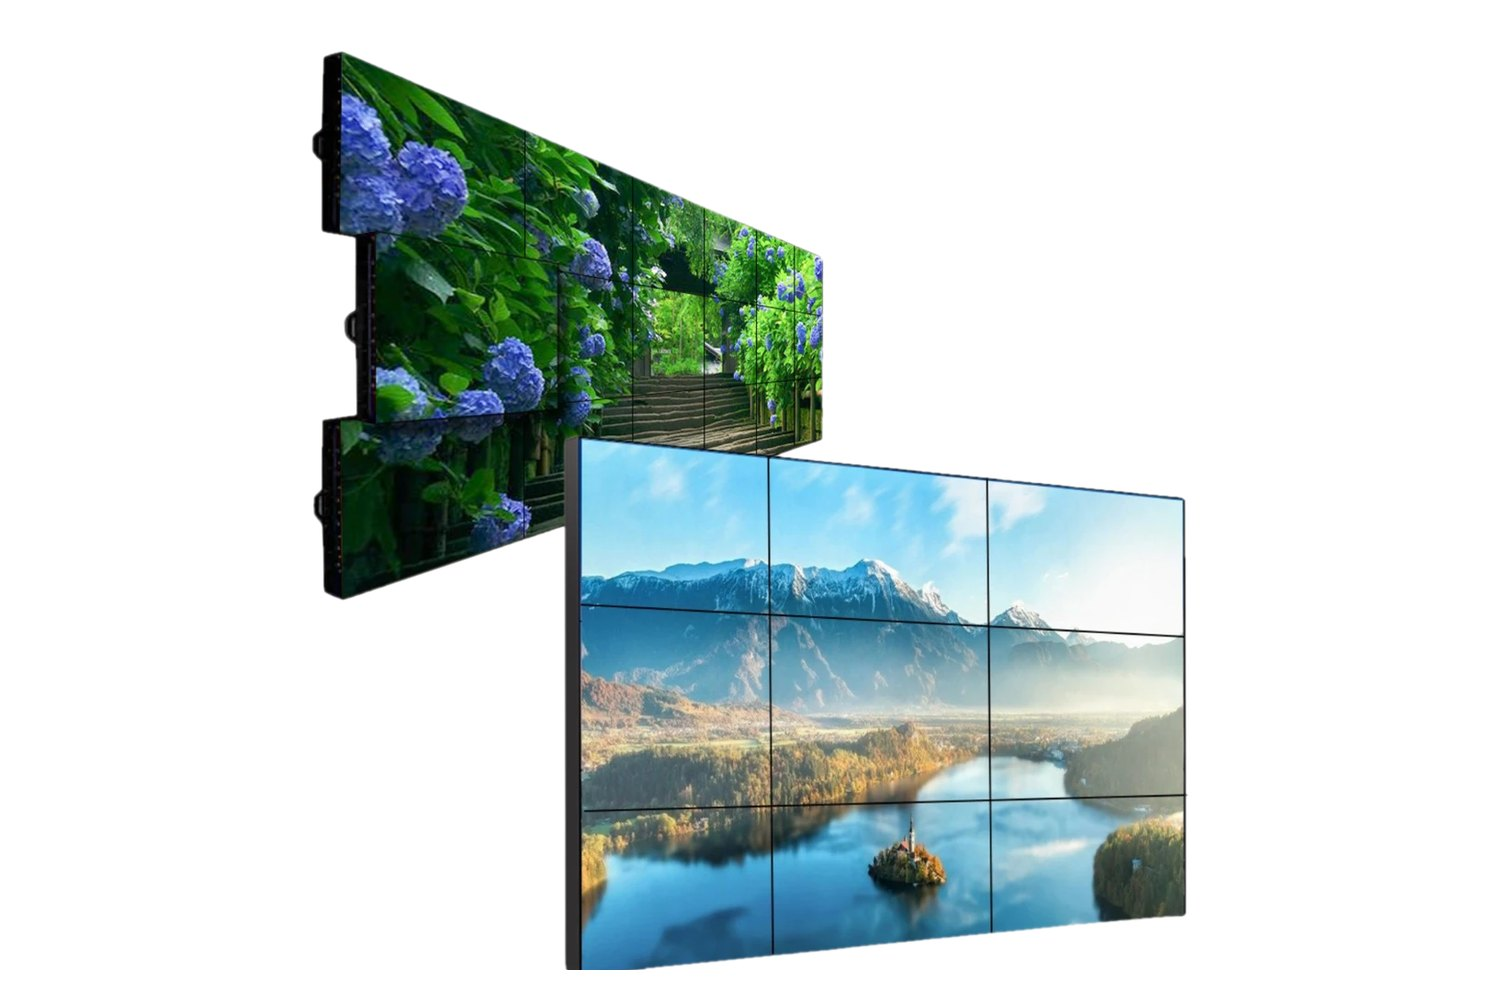
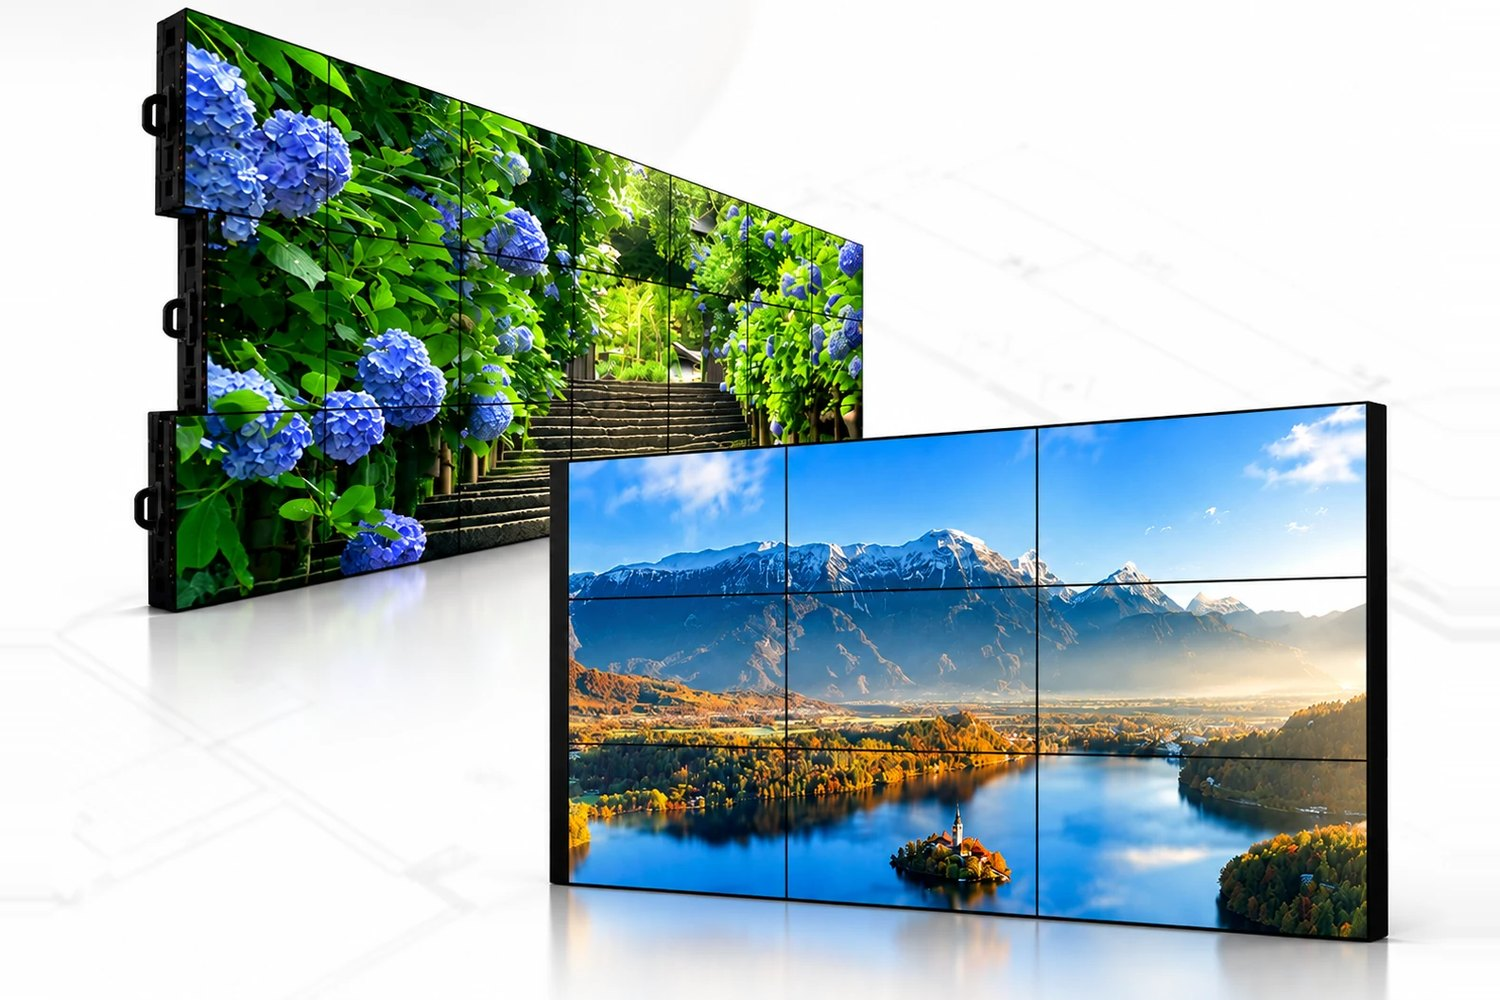
LED: fotos novas de video wall e digital signage; Corporativo e Sistema numa seção só

diff --git a/led/index.html b/led/index.html
@@ -105,6 +105,7 @@ section{padding:70px 0 10px}
 .ad-cap .antes{background:#f1f3f6;color:#55627a}.ad-cap .antes small{color:#8a97ad}.ad-cap .antes b{color:#3b4a63}
 .ad-cap .depois{background:var(--navy);color:#cfe2ff}.ad-cap .depois small{color:#7fc4ff}.ad-cap .depois b{color:#fff}
 @media(max-width:600px){.ad-cap{grid-template-columns:1fr}}
+.sis-in{margin:40px 0 46px}.sub-h{font-size:clamp(24px,2.8vw,34px);font-weight:700;letter-spacing:-.03em;color:var(--ink);margin:0 0 14px;line-height:1.15}.sub-h span{color:var(--blue)}.anc{display:block;position:relative;top:-80px}
 .sis{background:linear-gradient(180deg,#f2f8ff,var(--bg))}
 .sis-grid{display:grid;grid-template-columns:.95fr 1.05fr;gap:48px;align-items:center}
 .cmp{display:grid;grid-template-columns:1fr auto 1fr;gap:12px;align-items:stretch;margin-top:8px}
@@ -229,7 +230,7 @@ section{padding:70px 0 10px}
 <body>
 <header class="site"><div class="top">
   <a class="logo" href="../"><img src="../logo_dark.png" alt="ADmídia"></a>
-  <nav class="nav"><a href="#solucoes">Soluções</a><a href="#led">Painéis de LED</a><a href="#corporativo">Corporativo</a><a href="#sistema">Sistema</a><a href="#projetos">Projetos</a><a href="#contato">Fale conosco</a></nav>
+  <nav class="nav"><a href="#solucoes">Soluções</a><a href="#led">Painéis de LED</a><a href="#corporativo">Corporativo e sistema</a><a href="#projetos">Projetos</a><a href="#contato">Fale conosco</a></nav>
   <a class="pill dk" href="../"><span class="t">Anunciar nos nossos pontos</span><span>→</span></a>
 </div></header>
 
@@ -264,7 +265,7 @@ section{padding:70px 0 10px}
     <div class="tp on" role="tabpanel"><div class="ph"><img src="../capa.jpg" alt="Painel de LED na fachada de loja" loading="lazy"></div><div><h3>Painel de LED</h3><p>Fachada, outdoor e ambientes internos. Brilho forte pra ser visto de dia e de noite, com imagem e vídeo em alta definição.</p><ul><li>Fachadas de lojas e comércios</li><li>Outdoor e pontos de grande fluxo</li><li>Ambientes internos como academias e lojas</li></ul><a class="btn p" href="#" onclick="zapSeg('painel de LED');return false">Quero um orçamento de painel de LED</a></div></div>
     <div class="tp" role="tabpanel"><div class="ph"><img src="img/primus-instalacao.jpg" alt="Totem de LED no Trevo dos Morrotes" loading="lazy"></div><div><h3>Totem de LED</h3><p>Totem na frente do seu negócio ou em ponto de grande fluxo. Divulgue a sua marca e venda espaço para anunciantes: o painel se paga.</p><ul><li>Postos, farmácias, lojas e restaurantes</li><li>Estrutura e instalação completas</li><li>Troca de conteúdo à distância</li></ul><a class="btn p" href="#" onclick="zapSeg('totem');return false">Quero um orçamento de totem de led</a></div></div>
     <div class="tp" role="tabpanel"><div class="ph"><img src="img/videowall.jpg" alt="Video wall com várias telas formando uma imagem só" loading="lazy"></div><div><h3>Video wall</h3><p>Várias telas juntas formando uma imagem gigante, com bordas finas quase invisíveis. Impacto de cinema no seu espaço.</p><ul><li>Recepções, lojas e showrooms</li><li>Eventos e auditórios</li><li>Salas de controle e monitoramento</li></ul><a class="btn p" href="#" onclick="zapSeg('videowall');return false">Quero um orçamento de video wall</a></div></div>
-    <div class="tp" role="tabpanel"><div class="ph"><img src="img/sorveteria.jpg" alt="Cardápio digital com 3 telas" loading="lazy"></div><div><h3>Digital signage</h3><p>Telas internas com cardápio, promoções, avisos e conteúdo da marca, tudo gerenciado de qualquer lugar pelo nosso sistema. Sem pendrive.</p><ul><li>Cardápio digital em restaurantes e lanchonetes</li><li>Promoções no ponto de venda</li><li>Comunicação interna em empresas</li></ul><a class="btn p" href="#" onclick="zapSeg('signage');return false">Quero um orçamento de digital signage</a></div></div>
+    <div class="tp" role="tabpanel"><div class="ph"><img src="img/signage.jpg" alt="Telas de digital signage com cardápio e promoções" loading="lazy"></div><div><h3>Digital signage</h3><p>Telas internas com cardápio, promoções, avisos e conteúdo da marca, tudo gerenciado de qualquer lugar pelo nosso sistema. Sem pendrive.</p><ul><li>Cardápio digital em restaurantes e lanchonetes</li><li>Promoções no ponto de venda</li><li>Comunicação interna em empresas</li></ul><a class="btn p" href="#" onclick="zapSeg('signage');return false">Quero um orçamento de digital signage</a></div></div>
   </div>
 </div></section>
 
@@ -304,25 +305,14 @@ section{padding:70px 0 10px}
   </div>
 </div></section>
 <section class="corp" id="corporativo"><div class="wrap">
-  <div class="sec-k rv">Corporativo</div>
+  <div class="sec-k rv">Corporativo e sistema</div>
   <h2 class="rv">Comunicação que acompanha o <span>ritmo do seu negócio</span>.</h2>
   <p class="lead rv" style="max-width:720px">Mural de papel, cartaz impresso e recado no grupo de WhatsApp ficam velhos rápido, ninguém lê e custam caro pra refazer. Com telas digitais, a comunicação do seu estabelecimento fica viva, atualizada e impossível de ignorar.</p>
-  <p class="quote rv">A sua comunicação interna <span>também é a sua marca.</span></p>
-  <div class="bens">
-    <div class="bem rv"><div class="bi"><svg viewBox="0 0 24 24" fill="none" stroke="currentColor" stroke-width="2" stroke-linecap="round" stroke-linejoin="round"><path d="M13 2L3 14h9l-1 8 10-12h-9z"/></svg></div><b>Atualiza em segundos</b><p>Mudou o preço, a promoção ou o aviso? Troca na hora, de qualquer lugar, sem imprimir nada.</p></div>
-    <div class="bem rv"><div class="bi"><svg viewBox="0 0 24 24" fill="none" stroke="currentColor" stroke-width="2" stroke-linecap="round" stroke-linejoin="round"><path d="M1 12s4-8 11-8 11 8 11 8-4 8-11 8-11-8-11-8z"/><circle cx="12" cy="12" r="3"/></svg></div><b>Todo mundo vê</b><p>Clientes e colaboradores olham pra tela. Informação no lugar certo, na hora certa.</p></div>
-    <div class="bem rv"><div class="bi"><svg viewBox="0 0 24 24" fill="none" stroke="currentColor" stroke-width="2" stroke-linecap="round" stroke-linejoin="round"><rect x="3" y="3" width="7" height="7" rx="1"/><rect x="14" y="3" width="7" height="7" rx="1"/><rect x="3" y="14" width="7" height="7" rx="1"/><rect x="14" y="14" width="7" height="7" rx="1"/></svg></div><b>Padrão em todas as unidades</b><p>Mesma mensagem, mesma identidade visual, em uma ou dez lojas.</p></div>
-    <div class="bem rv"><div class="bi"><svg viewBox="0 0 24 24" fill="none" stroke="currentColor" stroke-width="2" stroke-linecap="round" stroke-linejoin="round"><path d="M3 17l6-6 4 4 8-8"/><path d="M14 7h7v7"/></svg></div><b>Mais vendas no ponto</b><p>Cardápio digital, combos e lançamentos onde a decisão de compra acontece.</p></div>
-    <div class="bem rv"><div class="bi"><svg viewBox="0 0 24 24" fill="none" stroke="currentColor" stroke-width="2" stroke-linecap="round" stroke-linejoin="round"><circle cx="9" cy="8" r="3.5"/><path d="M2 21c0-4 3-6.5 7-6.5s7 2.5 7 6.5"/><circle cx="17.5" cy="9" r="2.5"/><path d="M16 14.6c3.4.2 6 2.4 6 6.4"/></svg></div><b>Equipe mais engajada</b><p>Metas, aniversariantes, treinamentos e comunicados internos sem depender de e-mail ou papel.</p></div>
-    <div class="bem rv"><div class="bi"><svg viewBox="0 0 24 24" fill="none" stroke="currentColor" stroke-width="2" stroke-linecap="round" stroke-linejoin="round"><path d="M11 20A7 7 0 0 1 4 13c0-5 4-9 16-10-1 12-5 16-9 17z"/><path d="M4 21c3-6 7-9 11-11"/></svg></div><b>Economia e sustentabilidade</b><p>Adeus gasto com gráfica e impressão toda semana.</p></div>
-  </div>
-</div></section>
-
-<section class="sis" id="sistema"><div class="wrap">
-  <div class="sis-grid">
+  <span id="sistema" class="anc"></span>
+  <div class="sis-in"><div class="sis-grid">
     <div>
-      <div class="sec-k rv">Sistema de gestão</div>
-      <h2 class="rv">Tudo à distância. <span>Sem pendrive.</span></h2>
+      <div class="sec-k rv">Sistema de gestão ADmídia</div>
+      <h3 class="sub-h rv">Tudo à distância. <span>Sem pendrive.</span></h3>
       <p class="lead rv">A ADmídia aproveita as telas que você já tem e transforma a atualização em gestão digital. Você muda a arte no computador ou no celular, e as telas atualizam sozinhas.</p>
       </div>
     <div class="macimg rv"><img src="img/sis/sistema-mac.jpg" alt="Sistema de gestão de telas da ADmídia aberto no computador" loading="lazy"></div>
@@ -333,6 +323,16 @@ section{padding:70px 0 10px}
       <div class="antes"><small>Hoje</small><b>Pendrive</b><p>Preparar o arquivo, levar até a TV e trocar na mão.</p></div>
       <div class="depois"><small>Com a ADmídia</small><b>Gestão digital</b><p>Atualização à distância, em poucos cliques, em todas as telas.</p></div>
     </div>
+  </div>
+</div>
+  <p class="quote rv">A sua comunicação interna <span>também é a sua marca.</span></p>
+  <div class="bens">
+    <div class="bem rv"><div class="bi"><svg viewBox="0 0 24 24" fill="none" stroke="currentColor" stroke-width="2" stroke-linecap="round" stroke-linejoin="round"><path d="M13 2L3 14h9l-1 8 10-12h-9z"/></svg></div><b>Atualiza em segundos</b><p>Mudou o preço, a promoção ou o aviso? Troca na hora, de qualquer lugar, sem imprimir nada.</p></div>
+    <div class="bem rv"><div class="bi"><svg viewBox="0 0 24 24" fill="none" stroke="currentColor" stroke-width="2" stroke-linecap="round" stroke-linejoin="round"><path d="M1 12s4-8 11-8 11 8 11 8-4 8-11 8-11-8-11-8z"/><circle cx="12" cy="12" r="3"/></svg></div><b>Todo mundo vê</b><p>Clientes e colaboradores olham pra tela. Informação no lugar certo, na hora certa.</p></div>
+    <div class="bem rv"><div class="bi"><svg viewBox="0 0 24 24" fill="none" stroke="currentColor" stroke-width="2" stroke-linecap="round" stroke-linejoin="round"><rect x="3" y="3" width="7" height="7" rx="1"/><rect x="14" y="3" width="7" height="7" rx="1"/><rect x="3" y="14" width="7" height="7" rx="1"/><rect x="14" y="14" width="7" height="7" rx="1"/></svg></div><b>Padrão em todas as unidades</b><p>Mesma mensagem, mesma identidade visual, em uma ou dez lojas.</p></div>
+    <div class="bem rv"><div class="bi"><svg viewBox="0 0 24 24" fill="none" stroke="currentColor" stroke-width="2" stroke-linecap="round" stroke-linejoin="round"><path d="M3 17l6-6 4 4 8-8"/><path d="M14 7h7v7"/></svg></div><b>Mais vendas no ponto</b><p>Cardápio digital, combos e lançamentos onde a decisão de compra acontece.</p></div>
+    <div class="bem rv"><div class="bi"><svg viewBox="0 0 24 24" fill="none" stroke="currentColor" stroke-width="2" stroke-linecap="round" stroke-linejoin="round"><circle cx="9" cy="8" r="3.5"/><path d="M2 21c0-4 3-6.5 7-6.5s7 2.5 7 6.5"/><circle cx="17.5" cy="9" r="2.5"/><path d="M16 14.6c3.4.2 6 2.4 6 6.4"/></svg></div><b>Equipe mais engajada</b><p>Metas, aniversariantes, treinamentos e comunicados internos sem depender de e-mail ou papel.</p></div>
+    <div class="bem rv"><div class="bi"><svg viewBox="0 0 24 24" fill="none" stroke="currentColor" stroke-width="2" stroke-linecap="round" stroke-linejoin="round"><path d="M11 20A7 7 0 0 1 4 13c0-5 4-9 16-10-1 12-5 16-9 17z"/><path d="M4 21c3-6 7-9 11-11"/></svg></div><b>Economia e sustentabilidade</b><p>Adeus gasto com gráfica e impressão toda semana.</p></div>
   </div>
 </div></section>
 
